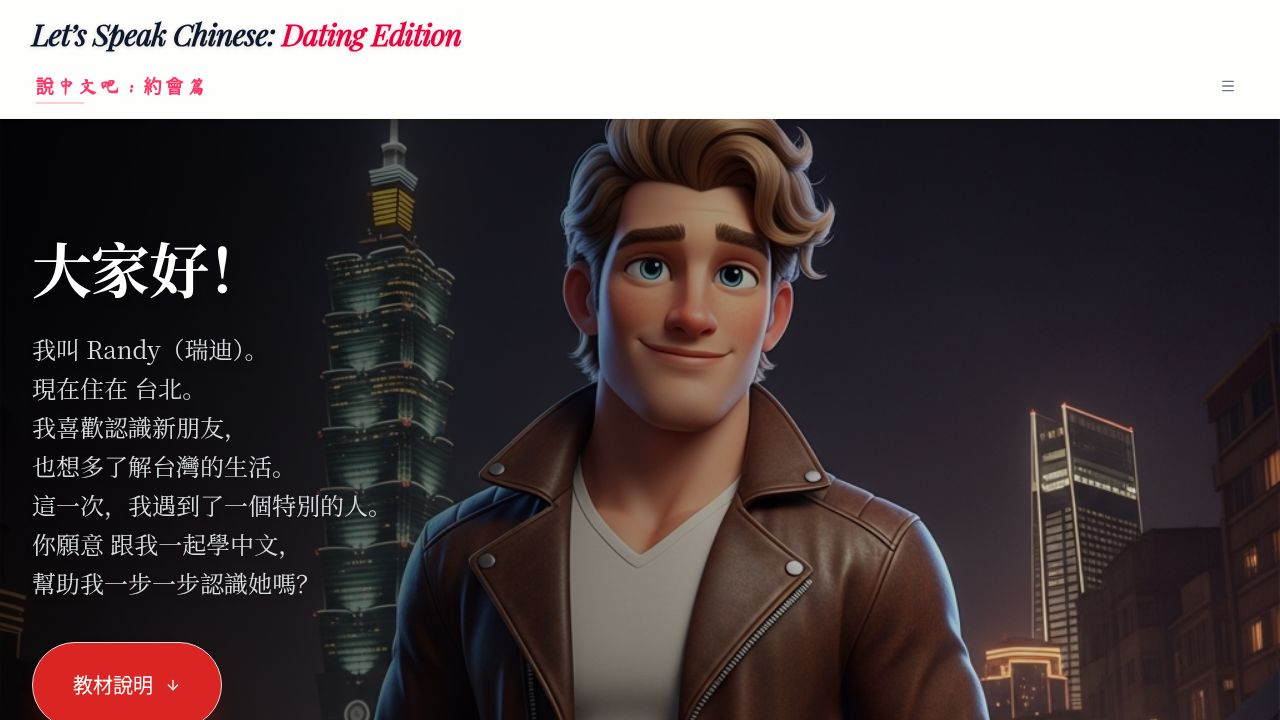
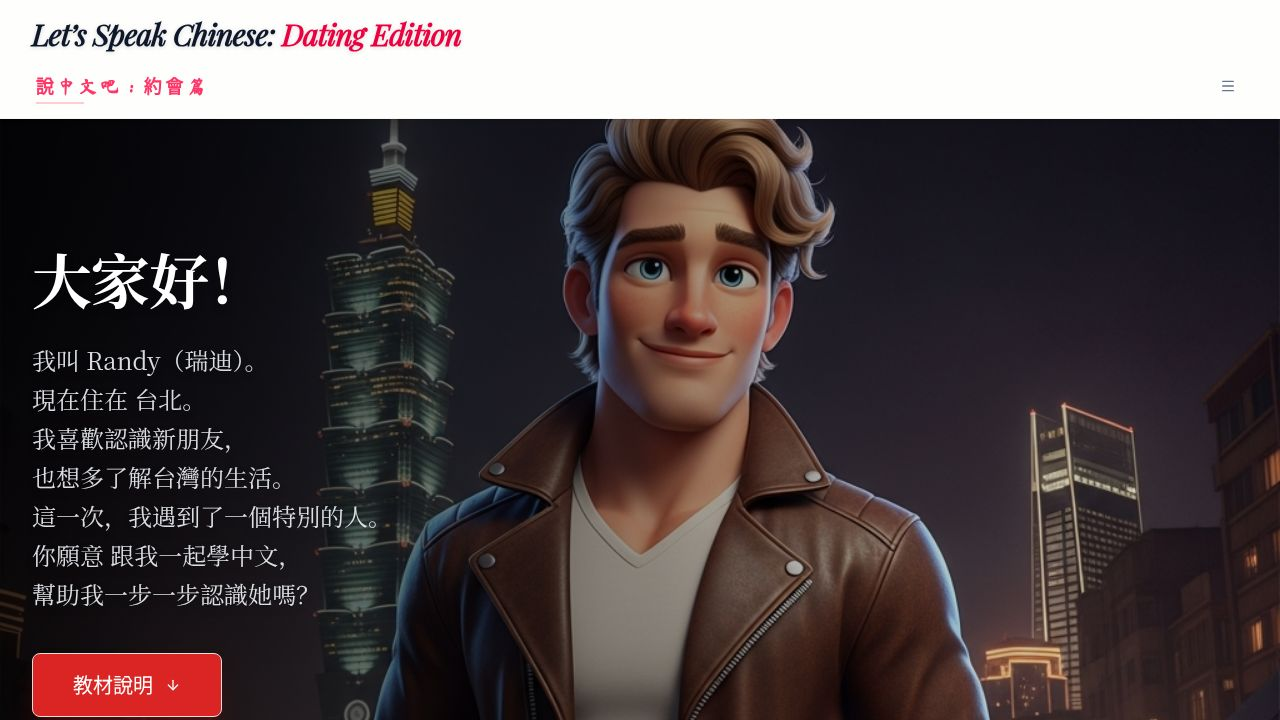
Replace teaching feature section with writing philosophy and update navigation
Replaces the "How to Use" section with "Writing Philosophy" content, modifies the "Explore Learning Tools" button to "Explore Writing Philosophy," and removes the "Philosophy" link from the header navigation.

Replit-Commit-Author: Agent
Replit-Commit-Session-Id: f5517adb-6271-45bf-8a5d-8714c1532456
Replit-Commit-Checkpoint-Type: full_checkpoint
Replit-Commit-Event-Id: 75ea6da0-77cb-4ebf-916f-3a16f85e9629
Replit-Commit-Screenshot-Url: https://storage.googleapis.com/screenshot-production-us-central1/5dcf2843-d3e7-4715-9185-db667d82b80a/f5517adb-6271-45bf-8a5d-8714c1532456/9aQAbE5
Replit-Helium-Checkpoint-Created: true

diff --git a/client/src/pages/home.tsx b/client/src/pages/home.tsx
@@ -615,13 +615,13 @@ export default function Home() {
                 variant="outline"
                 className="gap-2 text-xl px-10 py-7 rounded-sm border-2 border-primary text-primary hover:bg-primary/10 hover:text-primary h-16"
                 onClick={() => {
-                  const toolsSection = document.getElementById("tools-section");
-                  if (toolsSection) {
-                    toolsSection.scrollIntoView({ behavior: "smooth" });
+                  const philosophySection = document.getElementById("philosophy-section");
+                  if (philosophySection) {
+                    philosophySection.scrollIntoView({ behavior: "smooth" });
                   }
                 }}
               >
-                探索學習工具
+                探索編寫理念
                 <ChevronRight className="w-5 h-5" />
               </Button>
             </div>
@@ -629,83 +629,84 @@ export default function Home() {
         </div>
       </section>
 
-      <section id="tools-section" className="py-20 scroll-mt-20">
+      <section id="philosophy-section" className="py-20 scroll-mt-20">
         <div className="max-w-7xl mx-auto px-4 sm:px-6 lg:px-8">
           <motion.div
-            className="text-center mb-12"
-            initial={{ opacity: 0.7 }}
-            whileInView={{ opacity: 1, scale: 1.02 }}
-            viewport={{ once: false }}
-            transition={{ duration: 0.4 }}
+            className="text-center mb-16"
+            initial={{ opacity: 0, y: 20 }}
+            whileInView={{ opacity: 1, y: 0 }}
+            viewport={{ once: true }}
+            transition={{ duration: 0.5 }}
           >
-            <h2 className="text-3xl md:text-4xl font-bold font-serif-chinese">
-              {t.howToUse.title}
-            </h2>
-            <p className="mt-4 text-muted-foreground max-w-2xl mx-auto">
-              {t.howToUse.description}
+            <h1 className="text-4xl md:text-5xl font-bold font-serif-chinese mb-6 text-foreground">
+              {t.philosophy.title}
+            </h1>
+            <p className="text-xl text-muted-foreground font-serif-chinese max-w-3xl mx-auto">
+              {t.philosophy.subtitle}
             </p>
           </motion.div>
 
-          <div className="grid md:grid-cols-2 gap-6 max-w-4xl mx-auto">
-            {t.howToUse.steps.map((step, index) => (
-              <motion.div
-                key={index}
-                initial={{ opacity: 0, y: 20 }}
-                whileInView={{ opacity: 1, y: 0 }}
-                viewport={{ once: true }}
-                transition={{ delay: index * 0.1 }}
-              >
-                <Card className="p-6 h-full card-hover bg-card border-2 border-border/50 hover:border-primary/30 transition-colors">
-                  <div className="flex items-start gap-4">
-                    <div className="w-12 h-12 rounded-xl bg-primary/10 flex items-center justify-center flex-shrink-0">
-                      <span className="text-xl font-bold text-primary">
-                        {index + 1}
-                      </span>
-                    </div>
-                    <div>
-                      <h3 className="text-lg font-semibold font-serif-chinese mb-2">
-                        {step.title}
-                      </h3>
-                      <p className="text-muted-foreground leading-relaxed">
-                        {step.description}
-                      </p>
-                    </div>
-                  </div>
-                </Card>
-              </motion.div>
-            ))}
+          <div className="space-y-16 max-w-5xl mx-auto">
+            <motion.div 
+              initial={{ opacity: 0, y: 20 }}
+              whileInView={{ opacity: 1, y: 0 }}
+              viewport={{ once: true }}
+              className="prose prose-lg dark:prose-invert max-w-none"
+            >
+              <h2 className="text-2xl font-bold font-serif-chinese mb-6 flex items-center gap-3 text-jade">
+                <span className="w-8 h-8 rounded-full bg-jade/10 flex items-center justify-center text-sm">1</span>
+                {t.philosophy.section1.title}
+              </h2>
+              <div className="bg-card/50 rounded-2xl p-8 border border-border/50 backdrop-blur-sm shadow-sm">
+                <p className="leading-relaxed whitespace-pre-line text-muted-foreground font-serif-chinese text-lg">
+                  {t.philosophy.section1.content}
+                </p>
+              </div>
+            </motion.div>
+
+            <motion.div 
+              initial={{ opacity: 0, y: 20 }}
+              whileInView={{ opacity: 1, y: 0 }}
+              viewport={{ once: true }}
+              transition={{ delay: 0.1 }}
+              className="prose prose-lg dark:prose-invert max-w-none"
+            >
+              <h2 className="text-2xl font-bold font-serif-chinese mb-6 flex items-center gap-3 text-vermillion">
+                <span className="w-8 h-8 rounded-full bg-vermillion/10 flex items-center justify-center text-sm">2</span>
+                {t.philosophy.section2.title}
+              </h2>
+              <div className="bg-card/50 rounded-2xl p-8 border border-border/50 backdrop-blur-sm shadow-sm">
+                <p className="leading-relaxed whitespace-pre-line text-muted-foreground font-serif-chinese text-lg">
+                  {t.philosophy.section2.content}
+                </p>
+              </div>
+            </motion.div>
+
+            <motion.div 
+              initial={{ opacity: 0, y: 20 }}
+              whileInView={{ opacity: 1, y: 0 }}
+              viewport={{ once: true }}
+              transition={{ delay: 0.2 }}
+              className="prose prose-lg dark:prose-invert max-w-none"
+            >
+              <h2 className="text-2xl font-bold font-serif-chinese mb-6 flex items-center gap-3 text-gold">
+                <span className="w-8 h-8 rounded-full bg-gold/10 flex items-center justify-center text-sm">3</span>
+                {t.philosophy.section3.title}
+              </h2>
+              <div className="bg-card/50 rounded-2xl p-8 border border-border/50 backdrop-blur-sm shadow-sm">
+                <p className="leading-relaxed whitespace-pre-line text-muted-foreground font-serif-chinese text-lg">
+                  {t.philosophy.section3.content}
+                </p>
+              </div>
+            </motion.div>
           </div>
 
           <motion.div
             initial={{ opacity: 0, y: 20 }}
             whileInView={{ opacity: 1, y: 0 }}
             viewport={{ once: true }}
-            transition={{ delay: 0.4 }}
-            className="mt-10 max-w-2xl mx-auto"
-          >
-            <Card className="p-6 bg-gradient-to-r from-jade/10 to-primary/10 border-jade/30">
-              <div className="flex items-start gap-4">
-                <div className="w-10 h-10 rounded-full bg-jade/20 flex items-center justify-center flex-shrink-0">
-                  <Sparkles className="w-5 h-5 text-jade" />
-                </div>
-                <div>
-                  <h4 className="font-semibold text-jade mb-1">
-                    {t.howToUse.tip}
-                  </h4>
-                  <p className="text-muted-foreground">
-                    {t.howToUse.tipContent}
-                  </p>
-                </div>
-              </div>
-            </Card>
-          </motion.div>
-
-          <motion.div
-            initial={{ opacity: 0, y: 20 }}
-            whileInView={{ opacity: 1, y: 0 }}
-            viewport={{ once: true }}
-            transition={{ delay: 0.5 }}
-            className="mt-8 text-center"
+            transition={{ delay: 0.3 }}
+            className="mt-16 text-center"
           >
             <Button
               size="lg"
@@ -863,7 +864,7 @@ export default function Home() {
             <p className="text-lg text-muted-foreground mb-8 max-w-xl mx-auto">
               {t.cta.description}
             </p>
-            <Link href="/chapter1">
+            <Link href="/chapter1" onClick={() => window.scrollTo(0, 0)}>
               <Button
                 size="lg"
                 className="gap-2 bg-primary hover:bg-primary/90 shadow-lg rounded-sm text-xl px-10 py-7 h-16"

diff --git a/client/src/components/Header.tsx b/client/src/components/Header.tsx
@@ -13,7 +13,6 @@ export function Header() {
   const [location] = useLocation();
   const menuItems = [
     { href: "/", label: "首頁" },
-    { href: "/philosophy", label: "編寫理念" },
     { href: "/chapter1", label: "第一章" },
     { href: "/chapter2", label: "第二章" },
     { href: "/chapter3", label: "第三章" },
